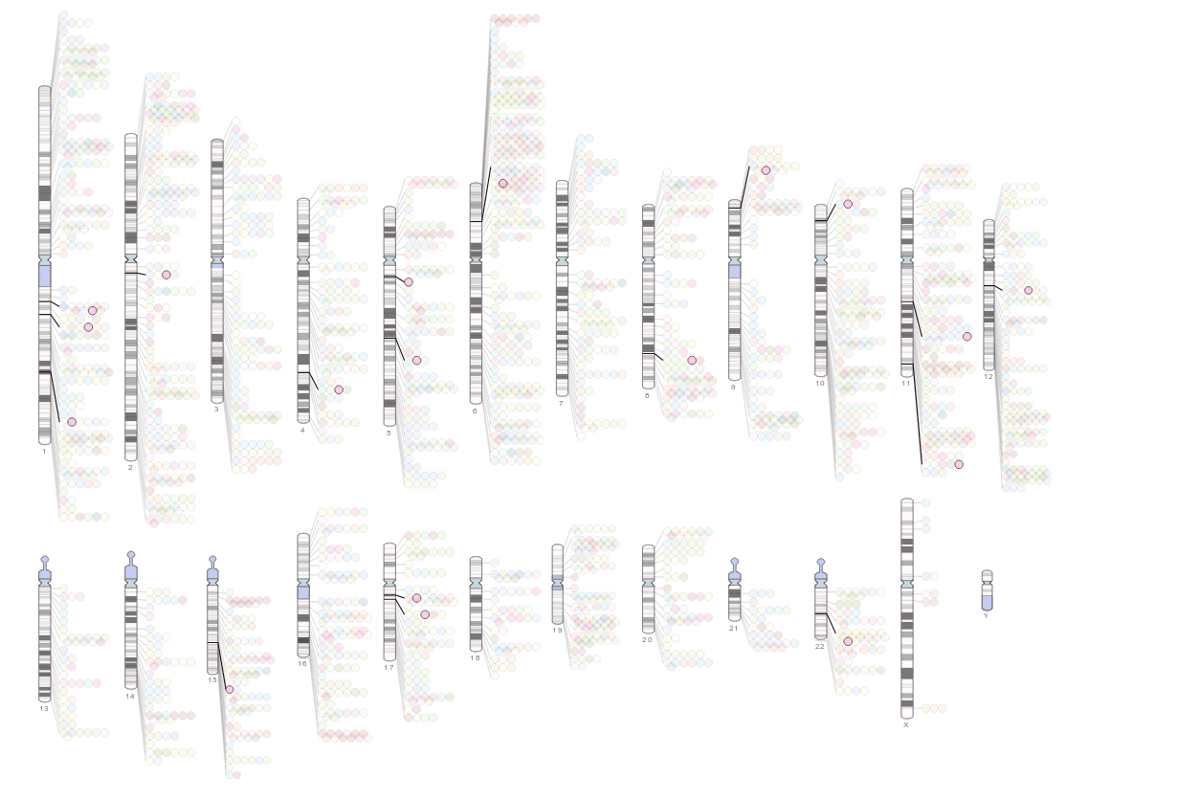
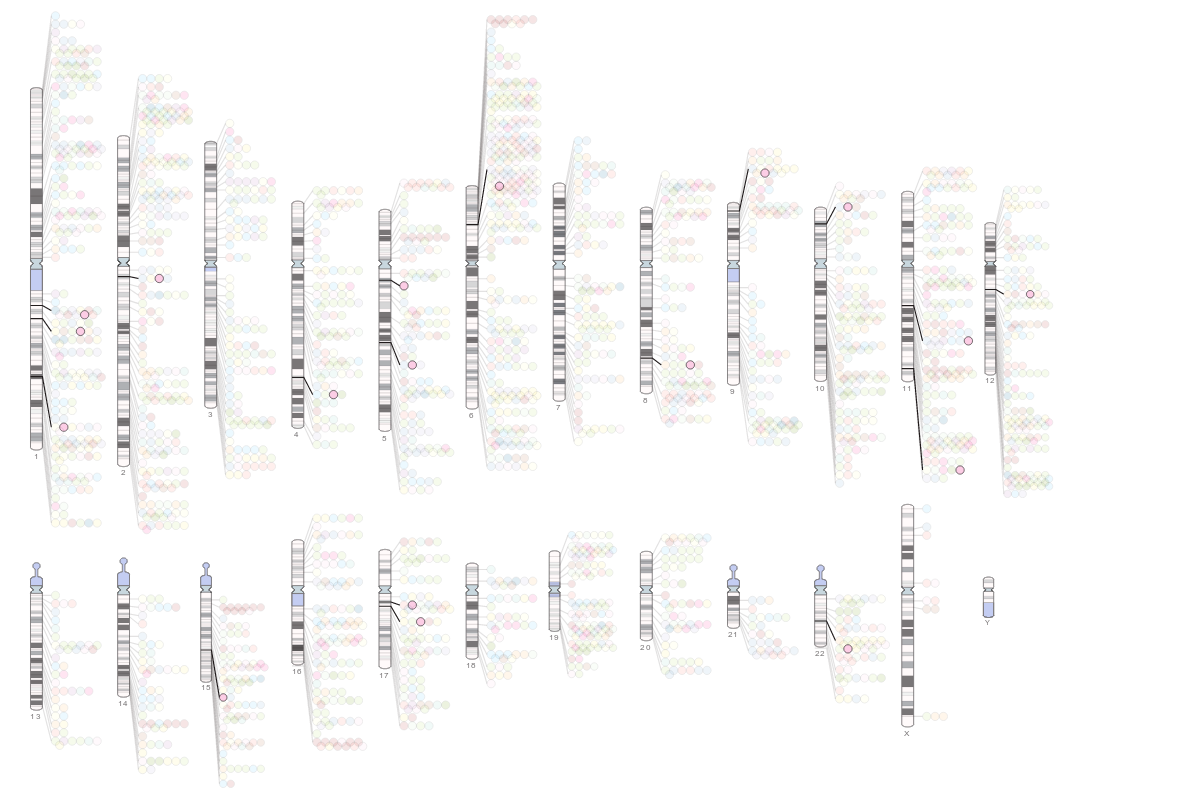
goci-pussycat: modifying images to match top ten searches in Lucia's slides

diff --git a/goci-diagram/goci-pussycat/src/main/webapp/index.html b/goci-diagram/goci-pussycat/src/main/webapp/index.html
@@ -269,9 +269,17 @@
     <div class="slides_container container" style="display: none;">
         <div>
             <h3>
-                GWAS Catalog<br/> Filtered on "asthma"<br/>
+                GWAS Catalog<br/> Filtered on "breast cancer"<br/>
             </h3>
-            <img src="images/filtering/asthma.png" alt="GWAS Catalog, asthma" title="GWAS Catalog, asthma">
+            <img src="images/filtering/breast-cancer.png"
+                 alt="GWAS Catalog, breast cancer"
+                 title="GWAS Catalog, breast cancer">
+        </div>
+        <div>
+            <h3>
+                GWAS Catalog<br/> Filtered on "diabetes"<br/>
+            </h3>
+            <img src="images/filtering/diabetes.png" alt="GWAS Catalog, diabetes" title="GWAS Catalog, diabetes">
         </div>
         <div>
             <h3>
@@ -281,17 +289,17 @@
         </div>
         <div>
             <h3>
-                GWAS Catalog<br/> Filtered on "coronary disease"<br/>
+                GWAS Catalog<br/> Filtered on "type 2 diabetes"<br/>
             </h3>
-            <img src="images/filtering/coronary-disease.png"
-                 alt="GWAS Catalog, coronary disease"
-                 title="GWAS Catalog, coronary disease">
+            <img src="images/filtering/type-2-diabetes.png"
+                 alt="GWAS Catalog, type 2 diabetes"
+                 title="GWAS Catalog, type 2 diabetes">
         </div>
         <div>
             <h3>
-                GWAS Catalog<br/> Filtered on "diabetes"<br/>
+                GWAS Catalog<br/> Filtered on "obesity"<br/>
             </h3>
-            <img src="images/filtering/diabetes.png" alt="GWAS Catalog, diabetes" title="GWAS Catalog, diabetes">
+            <img src="images/filtering/obesity.png" alt="GWAS Catalog, obesity" title="GWAS Catalog, obesity">
         </div>
         <div>
             <h3>
@@ -303,25 +311,33 @@
         </div>
         <div>
             <h3>
-                GWAS Catalog<br/> Filtered on "mental disorders"<br/>
+                GWAS Catalog<br/> Filtered on "lung cancer"<br/>
             </h3>
-            <img src="images/filtering/mental-disorders.png"
-                 alt="GWAS Catalog, mental disorders"
-                 title="GWAS Catalog, mental disorders">
+            <img src="images/filtering/lung-cancer.png"
+                 alt="GWAS Catalog, lung cancer"
+                 title="GWAS Catalog, lung cancer">
         </div>
         <div>
             <h3>
-                GWAS Catalog<br/> Filtered on "nervous system disease"<br/>
+                GWAS Catalog<br/> Filtered on "schizophrenia"<br/>
             </h3>
-            <img src="images/filtering/nervous-system-disease.png"
-                 alt="GWAS Catalog, nervous system disease"
-                 title="GWAS Catalog, nervous system disease">
+            <img src="images/filtering/schizophrenia.png"
+                 alt="GWAS Catalog, schizophrenia"
+                 title="GWAS Catalog, schizophrenia">
         </div>
         <div>
             <h3>
-                GWAS Catalog<br/> Filtered on "obesity"<br/>
+                GWAS Catalog<br/> Filtered on "asthma"<br/>
             </h3>
-            <img src="images/filtering/obesity.png" alt="GWAS Catalog, obesity" title="GWAS Catalog, obesity">
+            <img src="images/filtering/asthma.png" alt="GWAS Catalog, asthma" title="GWAS Catalog, asthma">
+        </div>
+        <div>
+            <h3>
+                GWAS Catalog<br/> Filtered on "prostate cancer"<br/>
+            </h3>
+            <img src="images/filtering/prostate-cancer.png"
+                 alt="GWAS Catalog, prostate cancer"
+                 title="GWAS Catalog, prostate cancer">
         </div>
     </div>
 </div>
@@ -358,17 +374,16 @@
 
         <h4>Filtered Views</h4>
         <ul>
-            <li><a href="images/filtering/asthma.png">GWAS diagram, filtered for asthma, PNG</a></li>
-            <li><a href="images/filtering/cancer.png">GWAS diagram, filtered for cancer, PNG</a></li>
-            <li><a href="images/filtering/coronary-disease.png">GWAS diagram, filtered for coronary disease, PNG</a>
-            </li>
+            <li><a href="images/filtering/breast-cancer.png">GWAS diagram, filtered for breast cancer, PNG</a></li>
             <li><a href="images/filtering/diabetes.png">GWAS diagram, filtered for diabetes, PNG</a></li>
-            <li><a href="images/filtering/hypertension.png">GWAS diagram, filtered for hypertension, PNG</a></li>
-            <li><a href="images/filtering/mental-disorders.png">GWAS diagram, filtered for mental disorders, PNG</a>
-            </li>
-            <li><a href="images/filtering/nervous-system-disease.png">GWAS diagram, filtered for nervous system disease,
-                PNG</a></li>
+            <li><a href="images/filtering/cancer.png">GWAS diagram, filtered for cancer, PNG</a></li>
+            <li><a href="images/filtering/type-2-diabetes.png">GWAS diagram, filtered for type 2 diabetes, PNG</a></li>
             <li><a href="images/filtering/obesity.png">GWAS diagram, filtered for obesity, PNG</a></li>
+            <li><a href="images/filtering/hypertension.png">GWAS diagram, filtered for hypertension, PNG</a></li>
+            <li><a href="images/filtering/lung-cancer.png">GWAS diagram, filtered for lung cancer, PNG</a></li>
+            <li><a href="images/filtering/schizophrenia.png">GWAS diagram, filtered for schizophrenia, PNG</a></li>
+            <li><a href="images/filtering/asthma.png">GWAS diagram, filtered for asthma, PNG</a></li>
+            <li><a href="images/filtering/prostate-cancer.png">GWAS diagram, filtered for prostate cancer, PNG</a></li>
         </ul>
 
         <h3>Ontology Files</h3>
